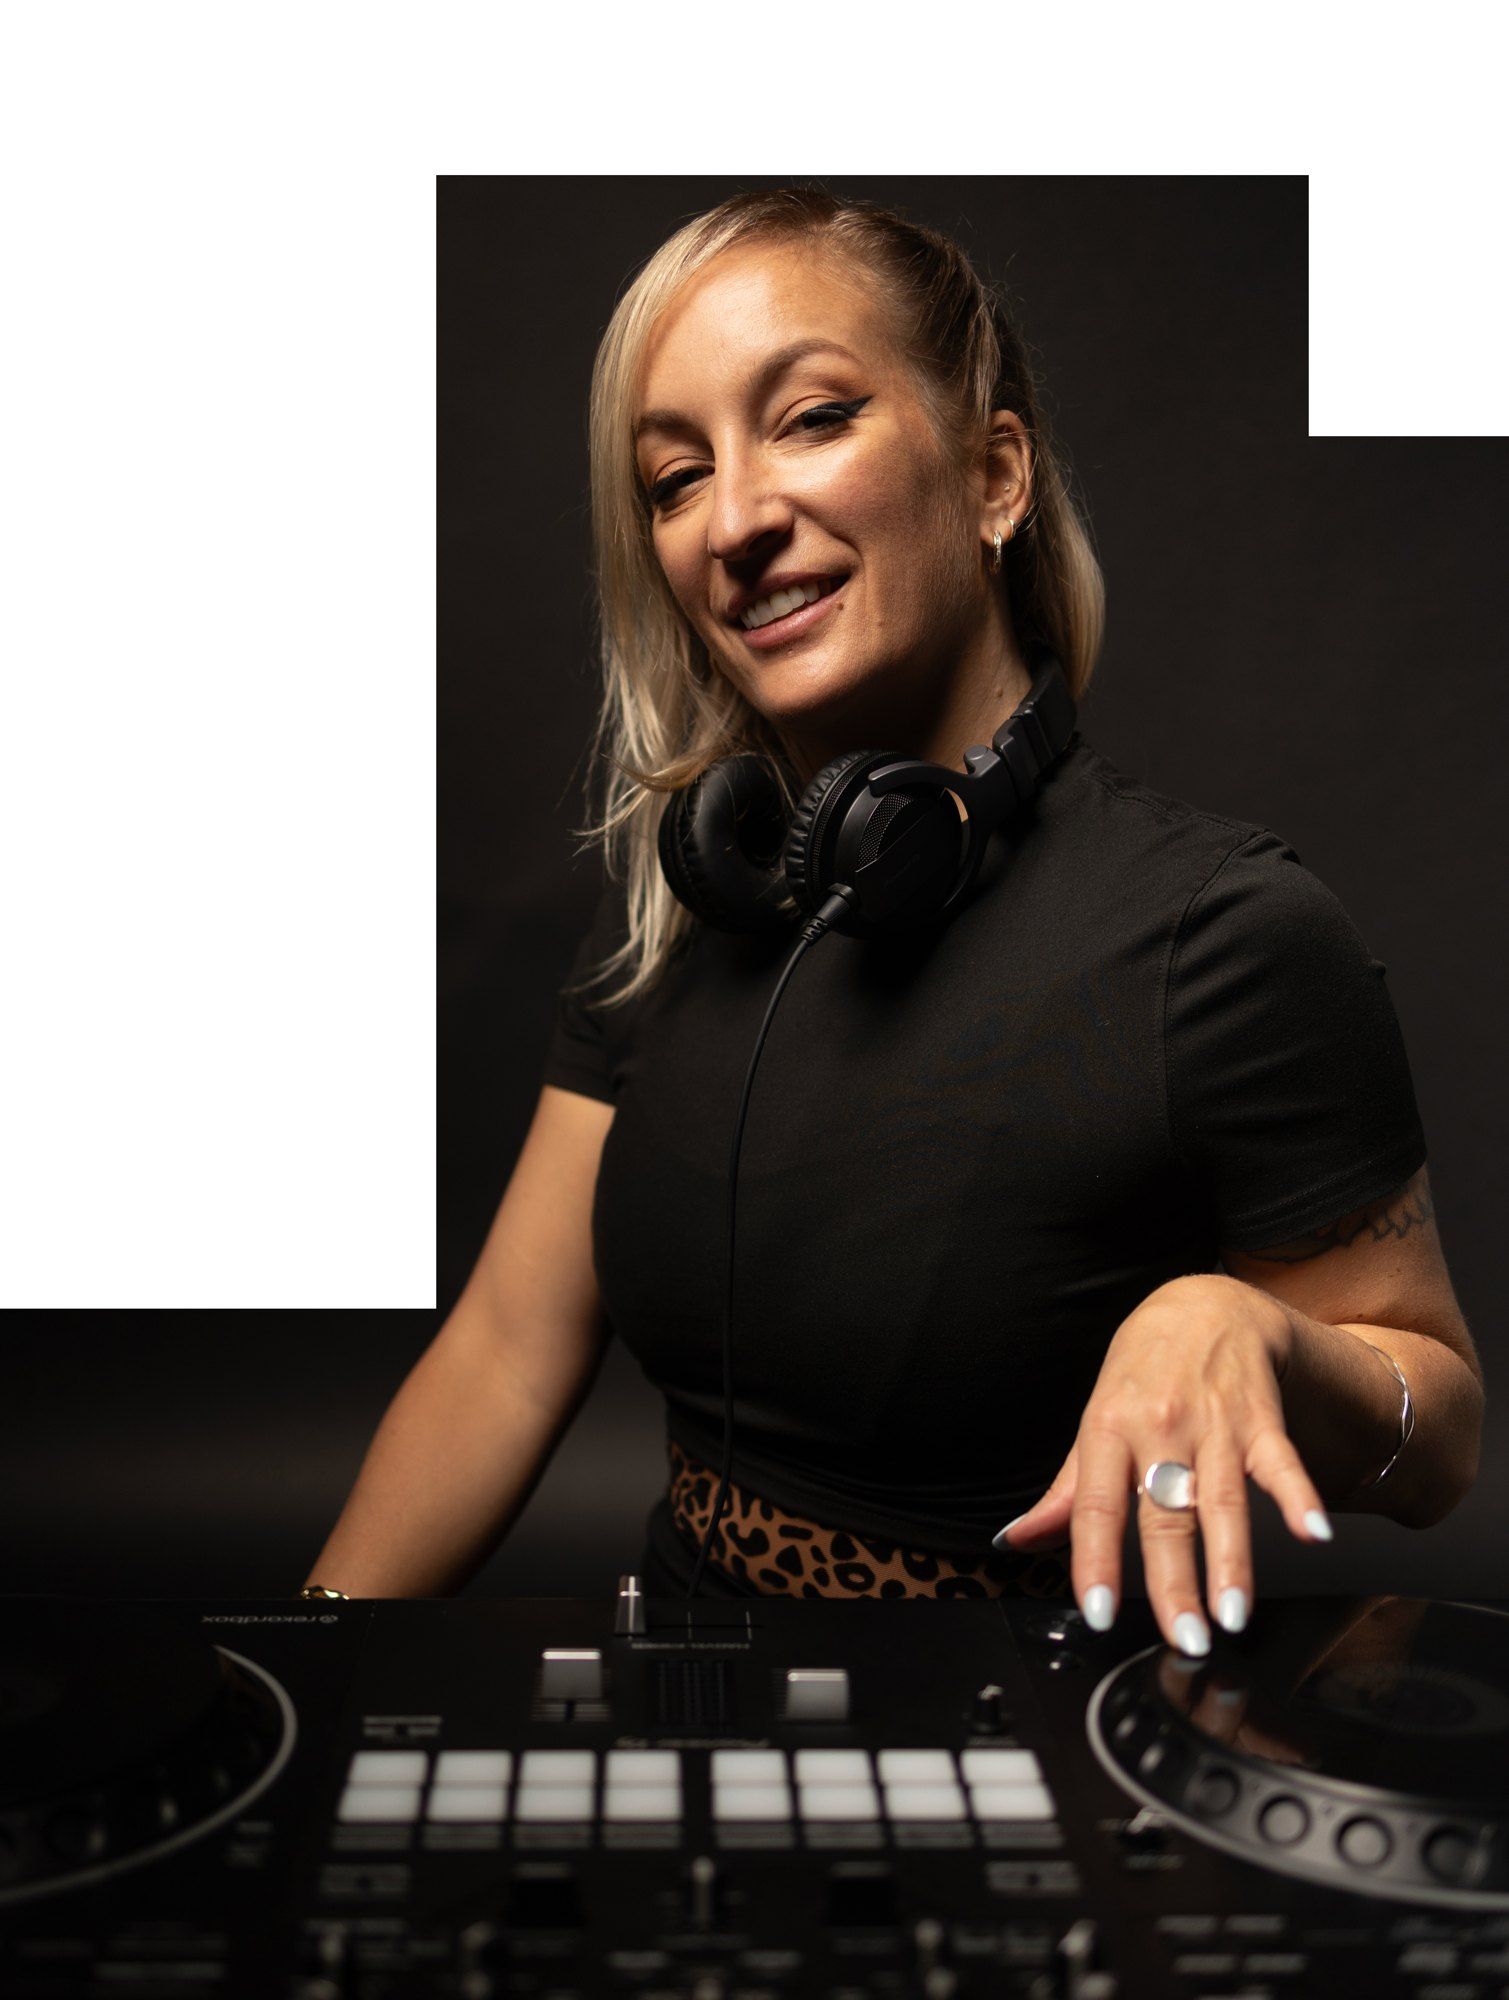
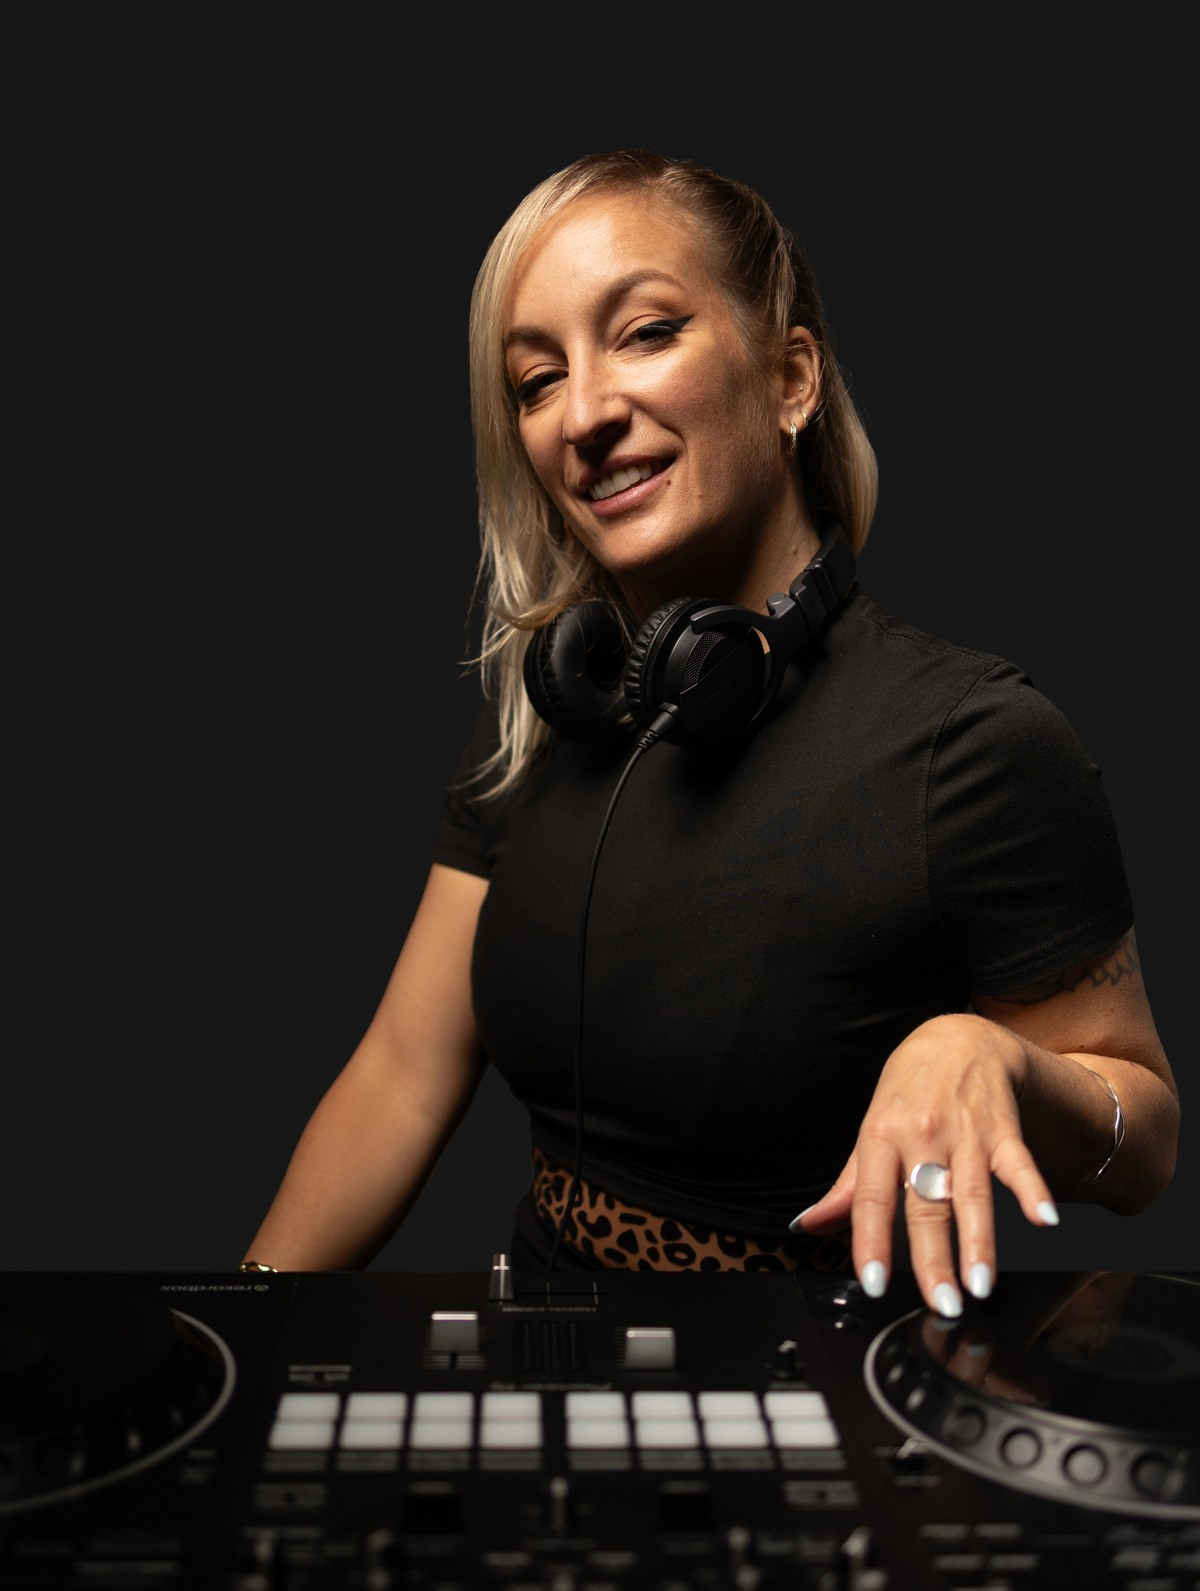
wer

Changed region(s): [[0.0, 0.0, 1.0, 0.6776], [0.3392, 0.7084, 0.4625, 0.77], [0.37, 0.4004, 0.4008, 0.4312]]

diff --git a/style.css b/style.css
@@ -130,8 +130,10 @@ footer { background:var(--ink); color:white; }
  .facts strong { font-size:10px; }
  .section-top { display:block; }
  .section-top>p { margin-top:15px; }
- .gallery-grid { grid-template-columns:repeat(2,minmax(0,1fr)); grid-auto-rows:170px; gap:9px; }
- .gallery-feature { grid-column:span 2; grid-row:auto; height:270px; }
+ .gallery-grid { grid-template-columns:repeat(2,minmax(0,1fr)); grid-auto-rows:auto; gap:9px; }
+ .gallery-item { aspect-ratio:1 / 1; }
+ .gallery-feature { grid-column:1 / -1; grid-row:auto; height:auto; aspect-ratio:3 / 4; }
+ .gallery-feature img { object-fit:contain; object-position:center; background:#171717; }
  .gallery-item span { font-size:9px; left:8px; bottom:8px; }
  .mix-card { padding:22px; }
  .mix-card h3 { font-size:4rem; }
